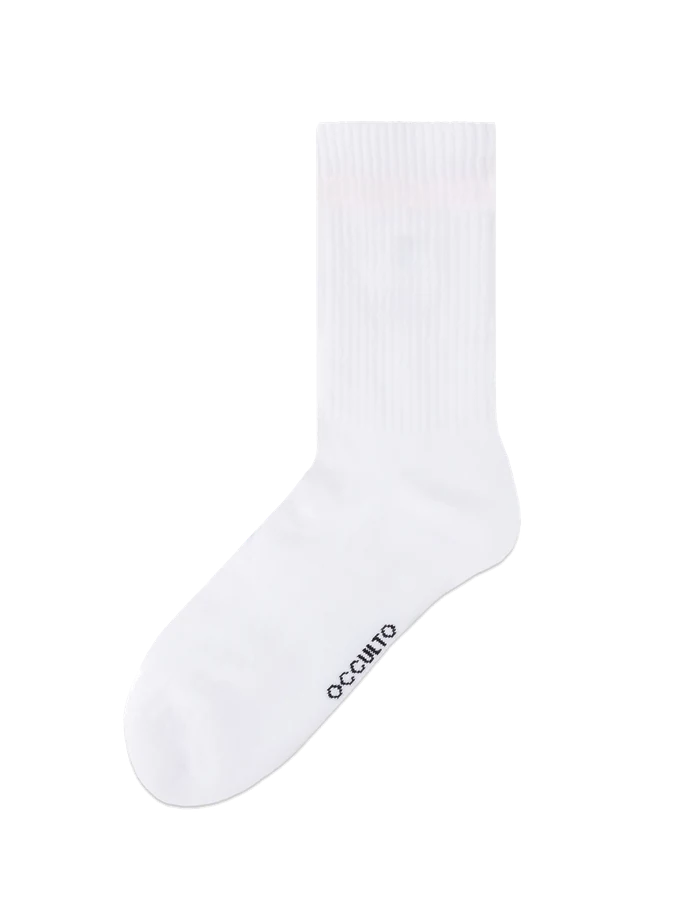
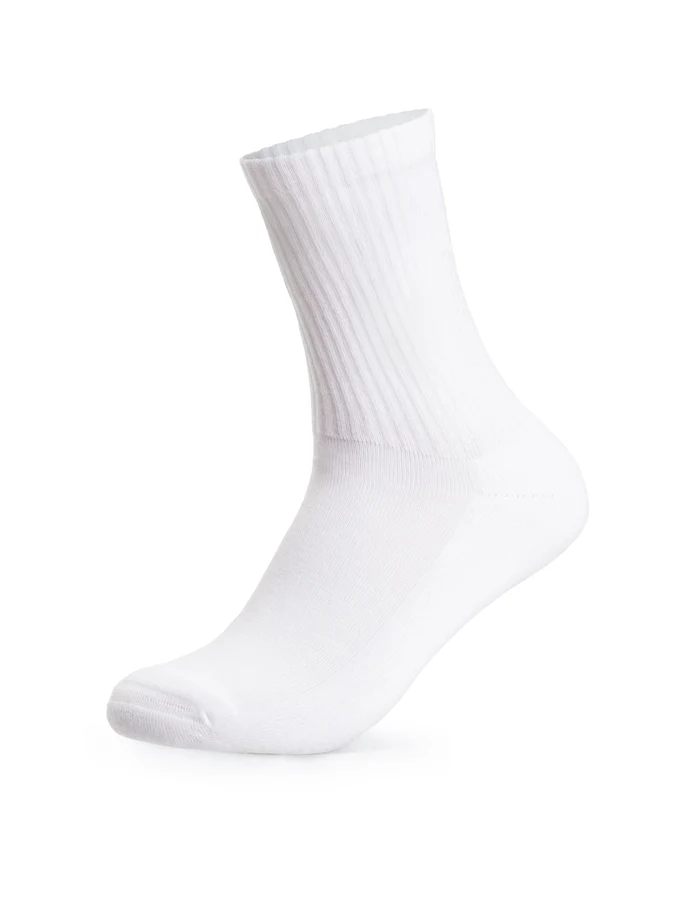
Neue Produktfotos, neue Reihenfolge, schraege Ringe
Reihenfolge und Namen in Konfigurator und Formular: Tennissocken, Casual
Socken, Stopper & Weitere, Muetzen & Textilien. Die drei Sockenfotos sind neu,
das Muetzenbild bleibt. Die alten liegen unter public/products/ALT.

Die Ringe laufen jetzt quer zum Schaft statt waagrecht und sind damit leicht
angeschnitten, wie ein umlaufender Ring im Foto aussieht. Die Neigung wird aus
der Silhouette gemessen - Mitte je Bildzeile, daraus eine Ausgleichsgerade -,
nicht am Produkt eingetragen. So haelt es auch den naechsten Fototausch aus.

Zwei Dinge mussten dafuer einstellbar werden, beide an den neuen Aufnahmen
nachgemessen:

Die Freistellung nahm jeden Bildpunkt ab Weissgrad 229 als Hintergrund. Auf
den neuen Fotos ist der Hintergrund 255 und der hellste Punkt der Socke 246 -
die halbe Socke wurde weggeschnitten. cutTolerance steht jetzt am Produkt, die
dunkle Muetze behaelt den grosszuegigen Standardwert.

Der Generator mass ausserdem immer erst den vorhandenen Schriftzug aus, um den
neuen auf dessen Groesse zu setzen. Die neuen Fotos tragen keinen; die Messung
hielt die Rippen der Ware fuer Druck und zog den Schriftzug ueber den Rand der
Socke hinaus. hasPrintedName: false ueberspringt Messung und Uebermalen.

Die Flaechen hinter der Ware sind weiss statt grau - Buehne, Auswahlkachel im
Konfigurator, Produktkachel im Formular. Der Hinweiskasten unter dem
gerechneten Bild bekommt einen leichteren Ton, sonst waere er der einzige
graue Block.

diff --git a/lib/render/mockup.ts b/lib/render/mockup.ts
@@ -102,6 +102,12 @@ function isEmpty(box: LocalBox): boolean {
  * Eingrenzung wuerde bei der dunklen Muetze der schwarze Strick ringsum als
  * Druck durchgehen und die Flaeche ins Uferlose wachsen.
  */
+/** Das Rechteck, das allein aus den Angaben am Produkt folgt. */
+function nameBox(product: Product, w: number, h: number): LabelBox {
+  const n = product.name;
+  return { cx: n.x * w, cy: n.y * h, halfW: n.len * w * 0.62, halfH: n.th * w * 1.1 };
+}
+
 function measureExistingPrint(product: Product, raster: Raster, material: RGB): LabelBox {
   const { data, w, h } = raster;
   const n = product.name;
@@ -153,7 +159,7 @@ function measureExistingPrint(product: Product, raster: Raster, material: RGB): 
     });
   }
 
-  const fallback: LabelBox = { cx, cy, halfW: n.len * w * 0.62, halfH: n.th * w * 1.1 };
+  const fallback = nameBox(product, w, h);
   if (isEmpty(ink)) return fallback;
 
   // Etwas Luft rundum, damit auch weiche Kanten des Drucks verschwinden.
@@ -347,11 +353,75 @@ function logoHelligkeit(layer: Raster): number {
 const RING_ANTEIL = 0.3;
 
 /**
+ * Neigung des Schafts im Bereich des Bundes.
+ *
+ * Die Ringe liegen um einen Zylinder, und der steht im Foto schraeg. Waagrecht
+ * gezogen sehen sie aufgeklebt aus statt umlaufend - sie muessen quer zur Achse
+ * des Schafts liegen und damit leicht angeschnitten sein.
+ *
+ * Gemessen statt geschaetzt: fuer jede Bildzeile im Bundbereich die Mitte
+ * zwischen linkem und rechtem Rand der Silhouette, daraus eine
+ * Ausgleichsgerade. Das haelt auch dann, wenn ein Produktfoto ausgetauscht
+ * wird und die Socke anders im Bild steht.
+ *
+ * Rueckgabe: m ist die Verschiebung der Mitte je Bildzeile nach unten, xc die
+ * Mitte selbst.
+ */
+function schaftNeigung(
+  w: number,
+  h: number,
+  band: { from: number; to: number },
+  silhouette: Uint8Array,
+): { m: number; xc: number } {
+  // Etwas ueber und unter dem Band mitmessen: ein paar Zeilen mehr machen die
+  // Gerade ruhiger, ohne in den Fuss zu geraten.
+  const von = Math.max(0, Math.floor((band.from - 0.03) * h));
+  const bis = Math.min(h - 1, Math.ceil((band.to + 0.03) * h));
+  const ys: number[] = [];
+  const xs: number[] = [];
+
+  for (let y = von; y <= bis; y++) {
+    let links = -1;
+    let rechts = -1;
+    for (let x = 0; x < w; x++) {
+      if (silhouette[y * w + x]! > 128) {
+        if (links < 0) links = x;
+        rechts = x;
+      }
+    }
+    // Zu schmale Zeilen sind Rand oder Rauschen, keine Ware.
+    if (links < 0 || rechts - links < w * 0.05) continue;
+    ys.push(y);
+    xs.push((links + rechts) / 2);
+  }
+
+  const n = ys.length;
+  if (n < 8) return { m: 0, xc: w / 2 };
+
+  const mitteY = ys.reduce((a, b) => a + b, 0) / n;
+  const mitteX = xs.reduce((a, b) => a + b, 0) / n;
+  let zaehler = 0;
+  let nenner = 0;
+  for (let i = 0; i < n; i++) {
+    zaehler += (ys[i]! - mitteY) * (xs[i]! - mitteX);
+    nenner += (ys[i]! - mitteY) ** 2;
+  }
+  const m = nenner === 0 ? 0 : zaehler / nenner;
+  // Mehr als das waere keine Neigung mehr, sondern ein Messfehler - etwa,
+  // wenn die Freistellung im Bundbereich ausgefranst ist.
+  return { m: Math.max(-0.6, Math.min(0.6, m)), xc: mitteX };
+}
+
+/**
  * Weiche Maske fuer die Farbringe am Bund.
  *
  * Echte Ware wird nicht durchgefaerbt: der Schaft bleibt weiss, farbig sind nur
  * die Ringe am gestrickten Bund. Ohne die weiche Kante stuende dort eine harte
  * Treppe.
+ *
+ * Gerechnet wird nicht in Bildzeilen, sondern in u: der Hoehe entlang der
+ * Schaftachse. Dadurch laufen die Ringe quer zum Schaft und sind schraeg
+ * angeschnitten, so wie ein umlaufender Ring im Foto aussieht.
  */
 function bandMask(
   w: number,
@@ -370,17 +440,23 @@ function bandMask(
   // Die weiche Kante richtet sich nach dem Ring, nicht nach dem ganzen Band -
   // sonst waere sie bei diesen schmalen Streifen breiter als der Streifen.
   const feather = Math.max(1, dicke * 0.18);
+  const { m, xc } = schaftNeigung(w, h, band, silhouette);
 
   for (const ring of ringe) {
-    const erste = Math.max(0, Math.floor(ring.von));
-    const letzte = Math.min(h - 1, Math.ceil(ring.bis));
+    // Der Suchbereich waechst um das, was die Neigung ueber die Bildbreite
+    // ausmacht - sonst fehlte der Ring an den Raendern.
+    const spielraum = Math.abs(m) * w;
+    const erste = Math.max(0, Math.floor(ring.von - spielraum));
+    const letzte = Math.min(h - 1, Math.ceil(ring.bis + spielraum));
     for (let y = erste; y <= letzte; y++) {
-      if (y < ring.von || y > ring.bis) continue;
-      const rand = Math.min(y - ring.von, ring.bis - y);
-      const v = Math.round(Math.min(1, rand / feather) * 255);
-      if (v <= 0) continue;
       for (let x = 0; x < w; x++) {
         const i = y * w + x;
+        if (silhouette[i]! === 0) continue;
+        const u = y + m * (x - xc);
+        if (u < ring.von || u > ring.bis) continue;
+        const rand = Math.min(u - ring.von, ring.bis - u);
+        const v = Math.round(Math.min(1, rand / feather) * 255);
+        if (v <= 0) continue;
         const wert = Math.min(v, silhouette[i]!);
         // Die Ringe ueberschneiden sich nicht, aber der groessere Wert zu
         // gewinnen ist die richtige Regel, falls ein Band mal so schmal ist,
@@ -413,15 +489,19 @@ export async function renderMockup(options: RenderOptions): Promise<Buffer> {
 
   // 1 - Produkt laden und freistellen.
   const base = await loadRaster(productImage, { w: width, h: height });
-  floodFillBackground(base);
+  floodFillBackground(base, product.cutTolerance);
   const silhouette = extractAlpha(base);
 
-  // 2 - Alten Schriftzug ausmessen und uebermalen.
+  // 2 - Alten Schriftzug ausmessen und uebermalen. Traegt das Foto keinen,
+  // entfaellt beides: zu messen gaebe es nur die Struktur der Ware.
   const labelColor = sampleLabelColor(product, base);
-  const printBox = measureExistingPrint(product, base, labelColor);
-  const patch = await labelPatch(product, base, labelColor, printBox);
-  maskWith(patch, silhouette);
-  compositeOver(base, patch);
+  let printBox = nameBox(product, width, height);
+  if (product.hasPrintedName !== false) {
+    printBox = measureExistingPrint(product, base, labelColor);
+    const patch = await labelPatch(product, base, labelColor, printBox);
+    maskWith(patch, silhouette);
+    compositeOver(base, patch);
+  }
 
   // 3 - Wunschfarbe auflegen. Dunkle Ware wird nicht eingefaerbt.
   const tint = parseHexColor(color);

diff --git a/lib/products.ts b/lib/products.ts
@@ -39,6 +39,25 @@ export type Product = {
    * bleibt Ware in Grundfarbe stehen, sonst wirkt er wie eine abgeschnittene Kappe.
    */
   band?: { from: number; to: number };
+  /**
+   * Wie hell ein Bildpunkt sein darf, um noch als Ware zu gelten - als
+   * Abstand zu Weiss. Ohne Angabe gilt der grosszuegige Standardwert.
+   *
+   * Nur noetig, wenn die Ware fast so hell ist wie der Hintergrund. Auf den
+   * Sockenfotos von 2026 ist der Hintergrund 255 und der hellste Punkt der
+   * Socke 246 - mit dem Standardwert (ab 229 ist Hintergrund) wurde die
+   * halbe Socke weggeschnitten.
+   */
+  cutTolerance?: number;
+  /**
+   * Traegt das Foto einen eingewebten Schriftzug, der uebermalt werden muss?
+   * Ohne Angabe ja.
+   *
+   * Bei false wird nicht gemessen und nicht uebermalt: der neue Schriftzug
+   * bekommt die Groesse aus name.len. Sonst haelt die Messung die Rippen der
+   * Ware fuer Druck und zieht ihn ueber den Rand der Socke hinaus.
+   */
+  hasPrintedName?: boolean;
   /** Eingewebter Schriftzug: Mittelpunkt, Drehung in Grad, Laenge und Strichstaerke. */
   name: { x: number; y: number; a: number; len: number; th: number };
   /**
@@ -60,51 +79,27 @@ export type Product = {
 /** Einheitlich fuer alle Produkte, aus den Angaben im Shop. */
 const LIEFERZEIT = '6–8 Wochen';
 
+/**
+ * Reihenfolge nach Nachfrage, das Haeufigste zuerst.
+ *
+ * Die Anteile fuer Ringe, Logo und Schriftzug sind an den Fotos vom
+ * 15.09.2026 ausgemessen, nicht geschaetzt: Silhouette je Bildzeile, daraus
+ * Bundkante und Mittellinie des Schafts. Wird ein Foto getauscht, muessen sie
+ * neu gemessen werden - die Socke steht dann anders im Bild.
+ */
 export const PRODUCTS: Product[] = [
   {
-    key: 'skisocke',
-    label: 'Skisocke',
-    file: 'skisocke.webp',
-    w: 675,
-    h: 900,
-    dark: false,
-    logo: { x: 0.545, y: 0.33, s: 0.17 },
-    band: { from: 0.115, to: 0.172 },
-    name: { x: 0.499, y: 0.806, a: -47, len: 0.107, th: 0.021 },
-    shopHandle: 'spezialsockem',
-    priceFrom: 1.69,
-    minQuantity: 100,
-    unit: 'Paar',
-    leadTime: LIEFERZEIT,
-    material: '80 % Baumwolle, 17 % Polyamid, 3 % Elasthan',
-  },
-  {
-    key: 'sneaker',
-    label: 'Sneakersocke',
-    file: 'sneaker.webp',
-    w: 675,
-    h: 900,
-    dark: false,
-    logo: { x: 0.6, y: 0.45, s: 0.17 },
-    band: { from: 0.337, to: 0.374 },
-    name: { x: 0.535, y: 0.735, a: -47, len: 0.15, th: 0.024 },
-    shopHandle: 'sneakersocken',
-    priceFrom: null,
-    minQuantity: 100,
-    unit: 'Paar',
-    leadTime: LIEFERZEIT,
-    material: '80 % Baumwolle, 17 % Polyamid, 3 % Elasthan',
-  },
-  {
     key: 'tennis',
-    label: 'Tennissocke',
+    label: 'Tennissocken',
     file: 'tennis.webp',
     w: 675,
     h: 900,
     dark: false,
-    logo: { x: 0.61, y: 0.38, s: 0.19 },
-    band: { from: 0.170, to: 0.222 },
-    name: { x: 0.535, y: 0.735, a: -47, len: 0.15, th: 0.024 },
+    cutTolerance: 5,
+    hasPrintedName: false,
+    logo: { x: 0.56, y: 0.345, s: 0.19 },
+    band: { from: 0.205, to: 0.275 },
+    name: { x: 0.6, y: 0.435, a: -18, len: 0.15, th: 0.024 },
     shopHandle: 'tennissocken',
     priceFrom: 2.1,
     minQuantity: 100,
@@ -113,8 +108,46 @@ export const PRODUCTS: Product[] = [
     material: '80 % Baumwolle, 17 % Polyamid, 3 % Elasthan, frottierte Sohle',
   },
   {
+    key: 'casual',
+    label: 'Casual Socken',
+    file: 'casual.webp',
+    w: 693,
+    h: 900,
+    dark: false,
+    cutTolerance: 5,
+    hasPrintedName: false,
+    logo: { x: 0.505, y: 0.365, s: 0.17 },
+    band: { from: 0.245, to: 0.315 },
+    name: { x: 0.545, y: 0.455, a: -17, len: 0.15, th: 0.024 },
+    shopHandle: 'sneakersocken',
+    priceFrom: null,
+    minQuantity: 100,
+    unit: 'Paar',
+    leadTime: LIEFERZEIT,
+    material: '80 % Baumwolle, 17 % Polyamid, 3 % Elasthan',
+  },
+  {
+    key: 'stopper',
+    label: 'Stopper & Weitere',
+    file: 'stopper.webp',
+    w: 692,
+    h: 900,
+    dark: false,
+    cutTolerance: 5,
+    hasPrintedName: false,
+    logo: { x: 0.56, y: 0.33, s: 0.17 },
+    band: { from: 0.215, to: 0.285 },
+    name: { x: 0.605, y: 0.41, a: -18, len: 0.15, th: 0.024 },
+    shopHandle: 'spezialsockem',
+    priceFrom: 1.69,
+    minQuantity: 100,
+    unit: 'Paar',
+    leadTime: LIEFERZEIT,
+    material: '80 % Baumwolle, 17 % Polyamid, 3 % Elasthan, Noppensohle',
+  },
+  {
     key: 'muetze',
-    label: 'Mütze',
+    label: 'Mützen & Textilien',
     file: 'muetze.webp',
     w: 692,
     h: 900,
@@ -175,17 +208,17 @@ export const ANFRAGE_KATEGORIEN = [
     key: 'casual',
     label: 'Casual Socken',
     unterzeile: 'Der Klassiker',
-    vorschau: '/products/vorschau/sneaker.webp',
+    vorschau: '/products/vorschau/casual.webp',
   },
   {
     key: 'spezial',
-    label: 'Spezialsocken',
-    unterzeile: 'Ski, Rad, Diabetiker',
-    vorschau: '/products/vorschau/skisocke.webp',
+    label: 'Stopper & Weitere',
+    unterzeile: 'Stopper, Ski, Rad',
+    vorschau: '/products/vorschau/stopper.webp',
   },
   {
     key: 'textil',
-    label: 'Weitere Textilien',
+    label: 'Mützen & Textilien',
     unterzeile: 'Mützen, Shirts, Hoodies',
     vorschau: '/products/vorschau/muetze.webp',
   },
@@ -196,10 +229,11 @@ export type AnfrageKategorie = (typeof ANFRAGE_KATEGORIEN)[number];
 /** Was der Konfigurator zeigt, auf die Kategorie des Formulars uebersetzt. */
 const KATEGORIE_JE_VORLAGE: Record<string, string> = {
   tennis: 'tennis',
-  // Der Konfigurator kennt die Sneakersocke, das Formular fasst sie unter
-  // Casual: es hat vier Kategorien, der Shop sieben Artikel.
-  sneaker: 'casual',
-  skisocke: 'spezial',
+  casual: 'casual',
+  // Die Kategorie im Formular heisst weiterhin spezial: der Schluessel
+  // steht in abgelegten Anfragen und wird nicht wegen einer Beschriftung
+  // umbenannt.
+  stopper: 'spezial',
   muetze: 'textil',
 };
 

diff --git a/app/globals.css b/app/globals.css
@@ -488,7 +488,7 @@ input {
   overflow: hidden;
   border: 1px solid rgb(var(--linie));
   border-radius: 6px;
-  background: rgb(var(--warengrund));
+  background: rgb(var(--weiss));
   cursor: zoom-in;
 }
 
@@ -566,7 +566,7 @@ input {
 
 .b2b-konfig__wahlbild {
   display: block;
-  background: rgb(var(--warengrund));
+  background: rgb(var(--weiss));
 }
 
 .b2b-konfig__wahlknopf img {
@@ -625,7 +625,7 @@ input {
   padding: 10px 13px;
   border-left: 3px solid rgb(var(--akzent));
   border-radius: 0 8px 8px 0;
-  background: rgb(var(--warengrund));
+  background: rgb(var(--linie) / 0.3);
   font-size: 13px;
   line-height: 1.45;
   color: rgb(var(--text-color) / 0.72);
@@ -968,7 +968,7 @@ input {
   align-items: center;
   justify-content: center;
   aspect-ratio: 1 / 1;
-  background: rgb(var(--warengrund));
+  background: rgb(var(--weiss));
 }
 
 .b2b-form__kachel img {
